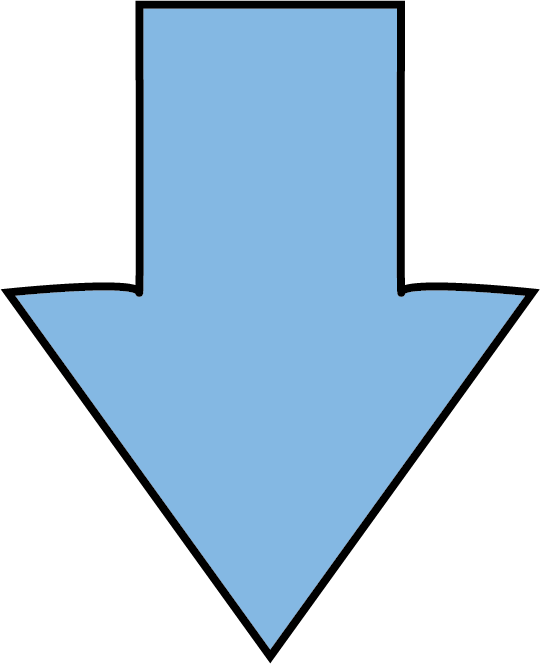
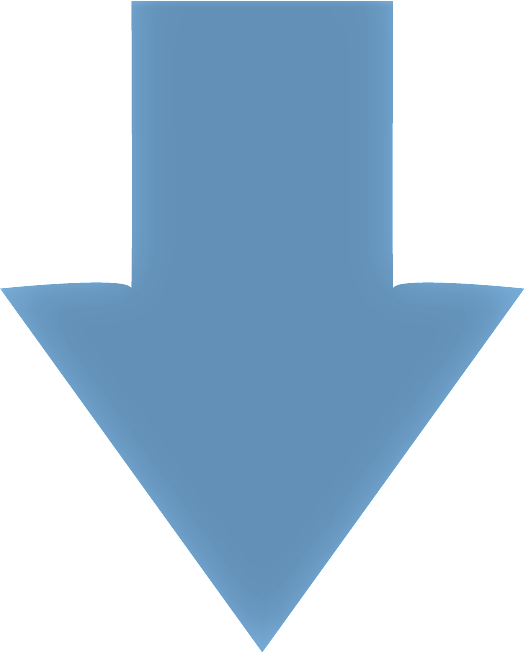
updated images and layout in step 5

diff --git a/X-Guide/MVVM/View/CalibrationWizardSteps/Step5.xaml b/X-Guide/MVVM/View/CalibrationWizardSteps/Step5.xaml
@@ -7,7 +7,8 @@
              xmlns:dshow="clr-namespace:DirectShowLib;assembly=DirectShowLib"
              mc:Ignorable="d" 
              FontSize="16"
-             xmlns:materialDesign="http://materialdesigninxaml.net/winfx/xaml/themes"     
+             xmlns:materialDesign="http://materialdesigninxaml.net/winfx/xaml/themes"   
+                
              d:DesignHeight="550" d:DesignWidth="1000">
     <UserControl.Resources>
 
@@ -87,6 +88,7 @@
                         <ColumnDefinition Width="5*"/>
                         <ColumnDefinition Width="*"/>
                     </Grid.ColumnDefinitions>
+                    
                     <!--UP -->
                     <Image VerticalAlignment="Top" Grid.Column="2" Grid.Row="0"  Stretch="Uniform" Source="pack://application:,,,/Style/ImageSource/up.png" ToolTip="Z+" ToolTipService.InitialShowDelay="100"/>
 
@@ -103,30 +105,31 @@
                     </Button>
                     <!-- Arrow Button-->
 
-                    <Canvas  Grid.Row="0" Grid.RowSpan="2"  HorizontalAlignment="Left" VerticalAlignment="Top" Width="260" Height="280" >
-                        <Image Width="260" Canvas.Top="40" Source="pack://application:,,,/Style/ImageSource/arrows.png" />
-                        <Button Style="{DynamicResource UpArrowButton}" >
-                            <TextBlock Style="{DynamicResource ButtonInnerTextBlockCenter}">Y+</TextBlock>
-                        </Button>
-                        <Button Style="{DynamicResource DownArrowButton}">
-                            <TextBlock  Style="{DynamicResource ButtonInnerTextBlockCenter}">Y-</TextBlock>
-                        </Button>
-                        <Button Style="{DynamicResource LeftArrowButton}">
-                            <TextBlock  Style="{DynamicResource ButtonInnerTextBlockCenter}">X+</TextBlock>
+                    <Viewbox Grid.Row="0" Grid.RowSpan="2" HorizontalAlignment="Left" VerticalAlignment="Top">
+                        <Canvas Width="260" Height="280">
+                            <Image Width="260" Canvas.Top="40" Source="pack://application:,,,/Style/ImageSource/arrows.png" />
+                            <Button Style="{DynamicResource UpArrowButton}">
+                                <TextBlock Style="{DynamicResource ButtonInnerTextBlockCenter}">Y+</TextBlock>
+                            </Button>
+                            <Button Style="{DynamicResource DownArrowButton}">
+                                <TextBlock Style="{DynamicResource ButtonInnerTextBlockCenter}">Y-</TextBlock>
+                            </Button>
+                            <Button Style="{DynamicResource LeftArrowButton}">
+                                <TextBlock Style="{DynamicResource ButtonInnerTextBlockCenter}">X+</TextBlock>
+                            </Button>
+                            <Button Style="{DynamicResource RightArrowButton}">
+                                <TextBlock Style="{DynamicResource ButtonInnerTextBlockCenter}">X-</TextBlock>
+                            </Button>
+                            <!-- Z rotation-->
+                            <Button Style="{DynamicResource ClockwiseButton}">
+                                <TextBlock Style="{DynamicResource ClockwiseTextBlock}">Rz+</TextBlock>
+                            </Button>
+                            <Button Style="{DynamicResource AntiClockwiseButton}">
+                                <TextBlock Style="{DynamicResource AntiClockwiseTextBlock}">Rz-</TextBlock>
+                            </Button>
+                        </Canvas>
+                    </Viewbox>
 
-                        </Button>
-                        <Button Style="{DynamicResource RightArrowButton}">
-                            <TextBlock Style="{DynamicResource ButtonInnerTextBlockCenter}">X-</TextBlock>
-                        </Button>
-                        <!-- Z rotation-->
-                        <Button Style="{DynamicResource ClockwiseButton}">
-                            <TextBlock  Style="{DynamicResource ClockwiseTextBlock}">Rz+</TextBlock>
-
-                        </Button>
-                        <Button Style="{DynamicResource AntiClockwiseButton}">
-                            <TextBlock Style="{DynamicResource AntiClockwiseTextBlock}">Rz-</TextBlock>
-                        </Button>
-                    </Canvas>
 
                 </Grid>
 
@@ -144,7 +147,8 @@
                         <RowDefinition Height="*"/>
                     </Grid.RowDefinitions>
                  <!-- Your Command -->
-                    <TextBlock Grid.Row="0" Grid.Column="1">▲ Press Any Button to Jog ▲</TextBlock>
+                    <TextBlock Grid.Row="0" Grid.ColumnSpan="2">▲ Press Any Button to Jog ▲</TextBlock>
+                   
                     <!--Row 1 : Rotation X--> 
                 
                     <Button Grid.Row="1" Grid.Column="0" Style="{DynamicResource RotationButtonStyle}" >
